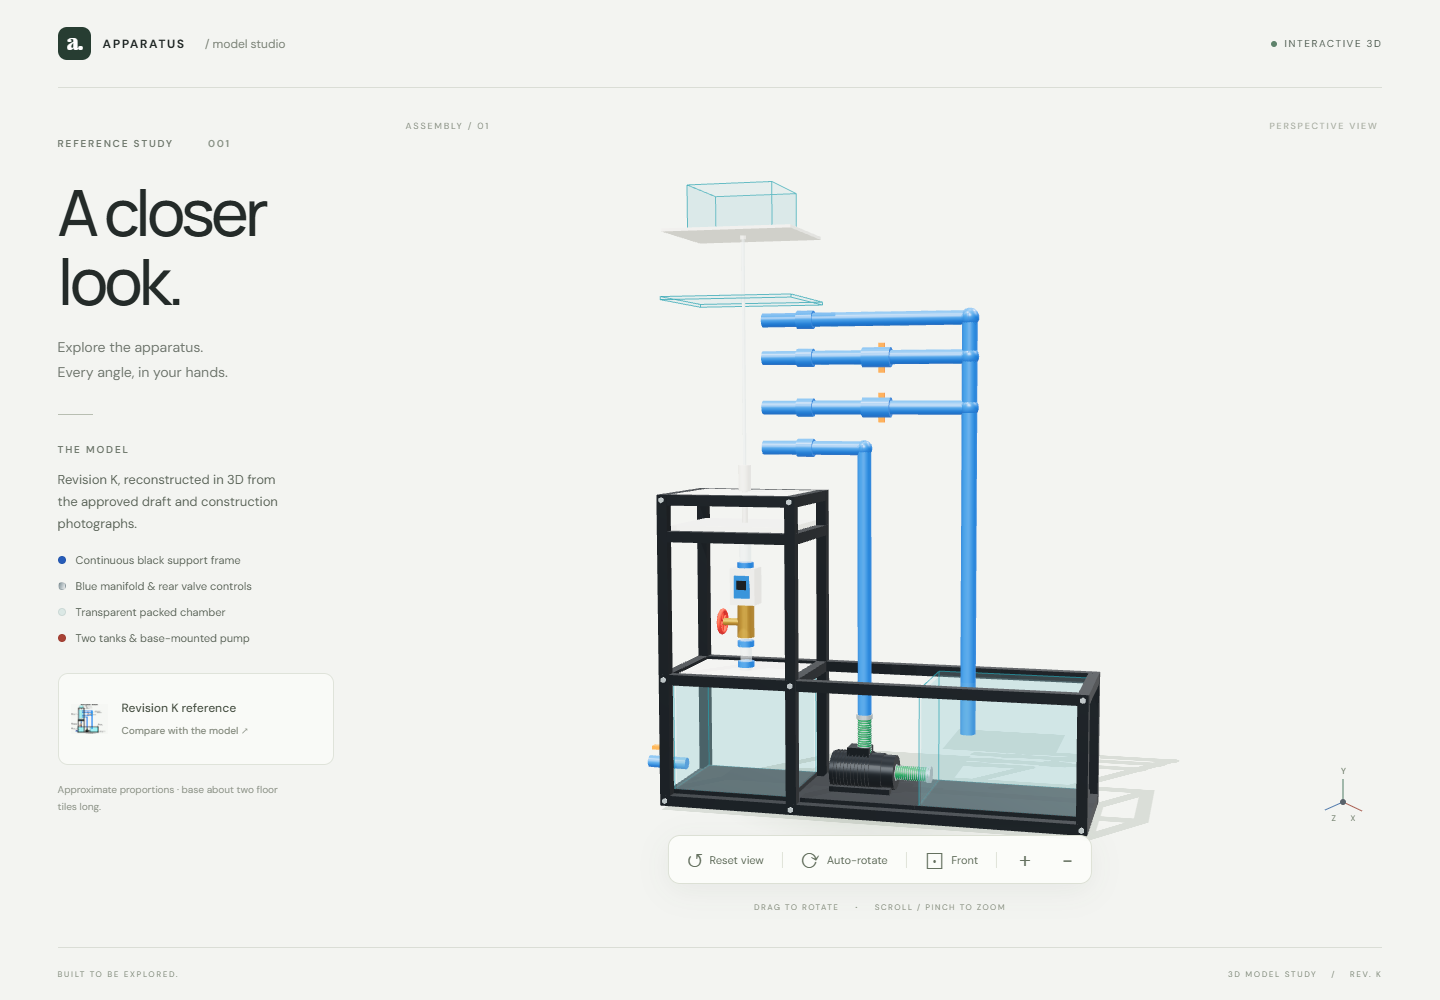
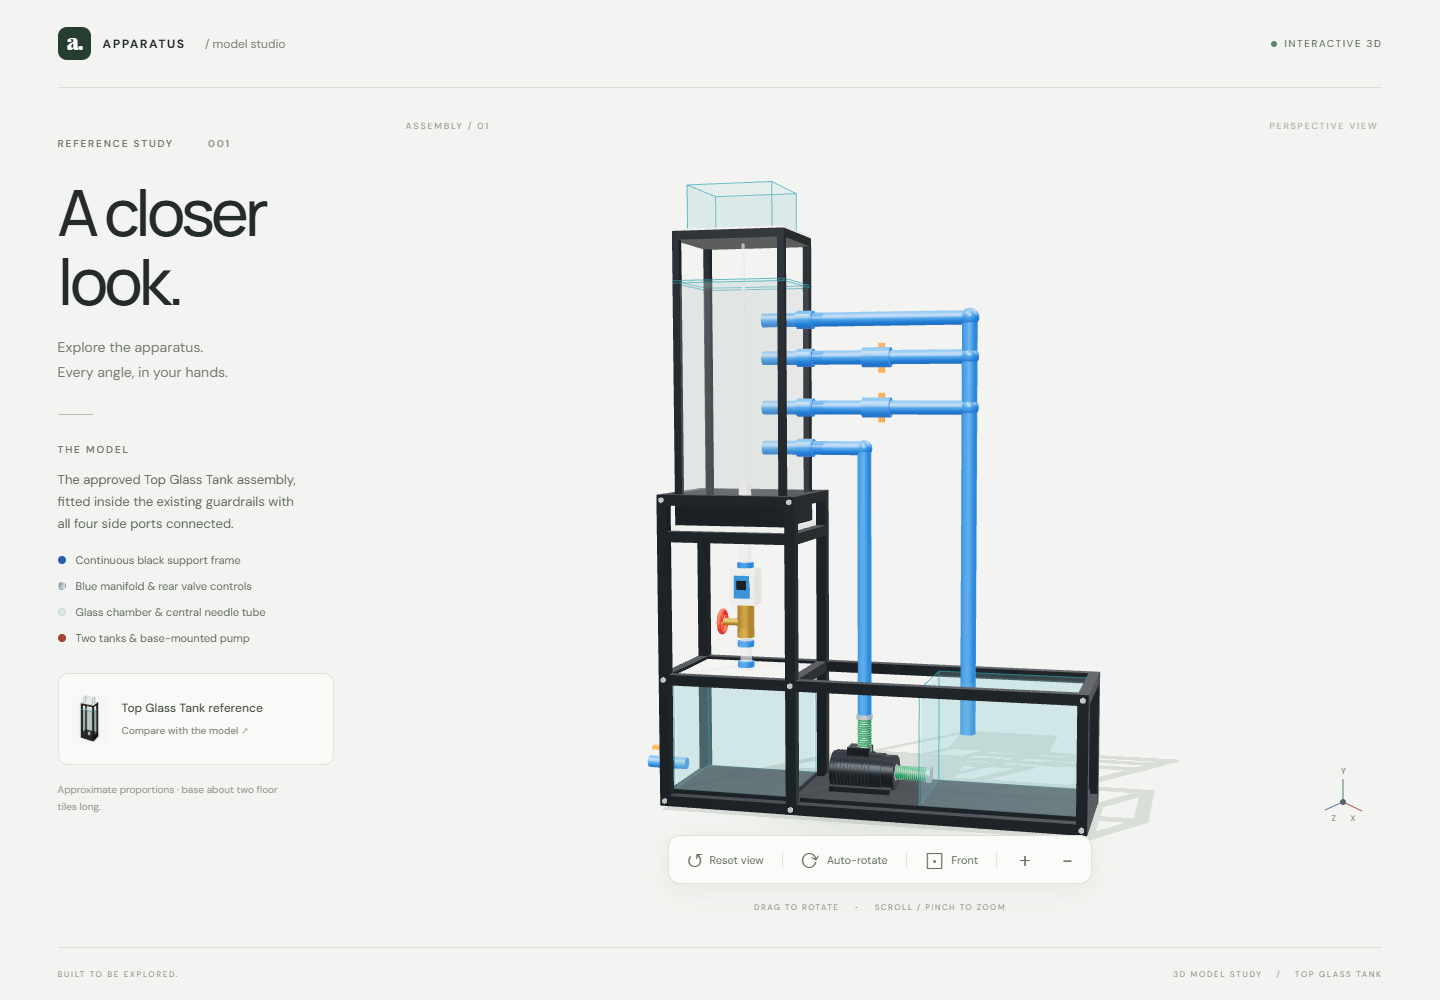
feat: complete inset top glass tank assembly

diff --git a/src/apparatus.js b/src/apparatus.js
@@ -3,7 +3,7 @@ import * as THREE from 'three';
 // Relative dimensions follow Revision K; photographs resolve depth and construction.
 export function createApparatus() {
   const model = new THREE.Group();
-  model.name = 'Revision K apparatus';
+  model.name = 'Top Glass Tank — approved experimental assembly';
   const standard=(color,metalness=0,roughness=.4)=>new THREE.MeshStandardMaterial({color,metalness,roughness});
   const m={black:standard('#20262b',.55),blue:standard('#0874e5',.15,.25),steel:standard('#bcc9cd',.75),white:standard('#efece0'),brass:standard('#bd8d35',.6),red:standard('#d33025'),orange:standard('#f16b16'),green:standard('#127845'),bead:standard('#e2e7df'),screen:standard('#0962b4'),edge:standard('#40acb9',.2)};
   m.glass=new THREE.MeshBasicMaterial({color:'#8cdee8',transparent:true,opacity:.10,side:THREE.DoubleSide,depthWrite:false});
@@ -52,25 +52,57 @@ export function createApparatus() {
   pipe(collection,'Drain top spindle',[-3.46,.56,.25],[-3.46,.78,.25],.043,m.brass);
   box(collection,'Drain top butterfly',.30,.055,.11,m.orange,-3.46,.79,.25);
   const reservoir=group('10 — open reservoir');tank(reservoir,'10 reservoir',1.91,1.145,2.30,1.73,1.46,false,true);
-  const chamber=group('04 — main chamber with aligned internal ports');
-  // White chamber seat and lower platform remain inside the retained guardrails.
-  box(chamber,'White lower tray platform',T-L-rail,.08,depth-rail,m.white,-2.15,4.29);
-  pipe(chamber,'Thin central clear tube',[-2.15,5.05,0],[-2.15,7.79,0],.025,m.tube);
-  pipe(chamber,'Plain nonmetal white cylinder',[-2.15,4.82,0],[-2.15,5.22,0],.095,m.white);
-  const needle=pipe(chamber,'Hidden downward needle inside white cylinder',[-2.15,5.18,0],[-2.15,4.87,0],.012,m.steel);
-  needle.userData.hiddenInsideCylinder=true;
-  pipe(chamber,'Internal outlet connection',[-2.15,4.87,0],[-2.15,4.29,0],.045,m.white);
-  const cap=group('02 + 03 — detachable upper vessel and glass enclosure');cap.userData.detachable=true;
-  // The glass holder and its support move with the raised frame; the chamber cap stays below the open gap.
-  // One solid floor sits on the frame, with no coplanar glass or duplicate floor faces.
-  const holderBase=8.0+upperFrameRise+.05+.045;
-  for(const x of [-2.81,-1.49])box(cap,'02 upper glass holder side wall',.012,.65,1.2,m.glass,x,holderBase+.325);
-  for(const z of [-.60,.60])box(cap,'02 upper glass holder end wall',1.308,.65,.012,m.glass,-2.15,holderBase+.325,z);
-  panelEdges(cap,1.32,.65,1.2,-2.15,holderBase+.325);
-  pipe(cap,'Thin pipe through hollow upper frame',[-2.15,7.73,0],[-2.15,holderBase,0],.025,m.tube);
-  pipe(cap,'Glass holder pipe mounting sleeve',[-2.15,holderBase-.10,0],[-2.15,holderBase+.025,0],.044,m.white);
+  const artifact=group('Top Glass Tank — complete inset assembly');
+  const cx=-2.15, width=1.74, tankDepth=1.39, post=.105;
+  const platformTop=4.33, housingTop=4.69, dividerY=7.95;
+  const holderBase=8.0+upperFrameRise+.05+.045, topPlateBottom=holderBase-.16;
+  const portYs=[7.42,6.85,6.10,5.49];
+  artifact.userData={clearance:.05,width,depth:tankDepth,platformTop,housingTop,dividerY};
+  const chamber=new THREE.Group();chamber.name='04 — enclosed glass chamber';artifact.add(chamber);
+  const cap=new THREE.Group();cap.name='02 + 03 — detachable holder, top support and divider';cap.userData.detachable=true;artifact.add(cap);
+  const grayGlass=new THREE.MeshBasicMaterial({color:'#c5d5d6',transparent:true,opacity:.13,side:THREE.DoubleSide,depthWrite:false});
+
+  // Real holes avoid coincident caps and preserve open bores through every horizontal plate.
+  function plateWithBore(g,name,w,d,thickness,y,material,r=.10){
+    const shape=new THREE.Shape();shape.moveTo(-w/2,-d/2);shape.lineTo(w/2,-d/2);shape.lineTo(w/2,d/2);shape.lineTo(-w/2,d/2);shape.closePath();
+    const hole=new THREE.Path();hole.absarc(0,0,r,0,Math.PI*2,true);shape.holes.push(hole);
+    const geo=new THREE.ExtrudeGeometry(shape,{depth:thickness,bevelEnabled:false,curveSegments:40});geo.rotateX(-Math.PI/2);
+    return mesh(g,name,geo,material,[cx,y,0]);
+  }
+  plateWithBore(chamber,'White lower tray platform',T-L-rail,depth-rail,.08,4.25,m.white);
+  plateWithBore(chamber,'Housing chamber floor',width,tankDepth,.045,housingTop-.045,m.black);
+  plateWithBore(chamber,'Housing underside with open outlet',width,tankDepth,.045,platformTop,m.black);
+  for(const x of [cx-width/2+.025,cx+width/2-.025])box(chamber,'Closed black housing side',.05,housingTop-platformTop,tankDepth,m.black,x,(platformTop+housingTop)/2);
+  for(const z of [-tankDepth/2+.025,tankDepth/2-.025])box(chamber,'Closed black housing end',width-.10,housingTop-platformTop,.05,m.black,cx,(platformTop+housingTop)/2,z);
+  for(const x of [cx-width/2+post/2,cx+width/2-post/2])for(const z of [-tankDepth/2+post/2,tankDepth/2-post/2]){
+    box(artifact,'Flush corner pillar',post,topPlateBottom-housingTop,post,m.black,x,(housingTop+topPlateBottom)/2,z);
+  }
+  // Four clear wall panels; the right wall has four actual coaxial pipe penetrations.
+  const glassBottom=housingTop, glassHeight=dividerY-glassBottom, glassCenter=(dividerY+glassBottom)/2;
+  const left=box(chamber,'Left glass wall',.012,glassHeight,tankDepth-2*post,grayGlass,cx-width/2+.012,glassCenter);
+  for(const z of [-tankDepth/2+.012,tankDepth/2-.012])box(chamber,'Front / rear glass wall',width-2*post,glassHeight,.012,grayGlass,cx,glassCenter,z);
+  const side=new THREE.Shape();const halfDepth=(tankDepth-2*post)/2;
+  side.moveTo(-halfDepth,glassBottom);side.lineTo(halfDepth,glassBottom);side.lineTo(halfDepth,dividerY);side.lineTo(-halfDepth,dividerY);side.closePath();
+  for(const y of portYs){const hole=new THREE.Path();hole.absarc(0,y,.142,0,Math.PI*2,true);side.holes.push(hole);}
+  const wallGeo=new THREE.ShapeGeometry(side,40);wallGeo.rotateY(Math.PI/2);
+  mesh(chamber,'Right glass wall with four port openings',wallGeo,grayGlass,[cx+width/2-.012,0,0]);
+  plateWithBore(cap,'Horizontal glass divider',width,tankDepth,.035,dividerY,m.glass,.033);
+  panelEdges(cap,width,.035,tankDepth,cx,dividerY+.0175);
+  plateWithBore(cap,'Black top support',width,tankDepth,.13,topPlateBottom,m.black,.035);
+  plateWithBore(cap,'White top holder base',width,tankDepth,.03,holderBase-.03,m.white,.035);
+  for(const x of [cx-.66,cx+.66])box(cap,'02 upper glass holder side wall',.012,.65,1.2,m.glass,x,holderBase+.325);
+  for(const z of [-.60,.60])box(cap,'02 upper glass holder end wall',1.308,.65,.012,m.glass,cx,holderBase+.325,z);
+  panelEdges(cap,1.32,.65,1.2,cx,holderBase+.325);
+  pipe(artifact,'Thin central pipe through holder and divider',[cx,4.93,0],[cx,holderBase+.04,0],.025,m.tube);
+  // Open white sleeve: outer/inner surfaces and annular rims, no solid end caps.
+  const sleeveBottom=4.12,sleeveTop=4.95,outer=.095,inner=.065;
+  mesh(chamber,'White hollow needle sleeve outer',new THREE.CylinderGeometry(outer,outer,sleeveTop-sleeveBottom,40,1,true),m.white,[cx,(sleeveTop+sleeveBottom)/2,0]);
+  const innerMat=m.white.clone();innerMat.side=THREE.BackSide;
+  mesh(chamber,'White hollow needle sleeve inner',new THREE.CylinderGeometry(inner,inner,sleeveTop-sleeveBottom,40,1,true),innerMat,[cx,(sleeveTop+sleeveBottom)/2,0]);
+  for(const y of [sleeveBottom,sleeveTop]){const rim=mesh(chamber,'Open annular sleeve rim',new THREE.RingGeometry(inner,outer,40),m.white,[cx,y,0]);rim.rotation.x=y===sleeveTop?-Math.PI/2:Math.PI/2;}
+  const needle=pipe(chamber,'Concealed downward needle',[cx,4.91,0],[cx,4.57,0],.008,m.steel);needle.userData.hiddenInsideCylinder=true;
   const plumbing=group('05 + 06 — blue header and rear valve controls');
-  const portYs=[7.42,6.85,6.10,5.49], headerX=1.35, portZ=0;
+  const headerX=1.35, portZ=0;
   portYs.forEach((y,i)=>{
     const end=i===3?-.25:headerX;
     pipe(plumbing,'P'+(i+1)+' coaxial chamber-to-exterior pipe',[-1.84,y,portZ],[end,y,portZ],.105);
@@ -98,8 +130,8 @@ export function createApparatus() {
   for(const z of [-.24,.24])box(pump,'Bolted pump foot',.94,.09,.13,m.black,-.26,.32,z);
   pipe(pump,'Top discharge fitting',[-.25,.67,0],[-.25,.80,0],.125,m.black);
   const meter=group('07 — vertical flow meter and left-facing handwheel');
-  pipe(meter,'Visible upper outlet pipe',[-2.15,3.67,0],[-2.15,4.30,0],.09,m.tube);
-  for(const y of [3.67,4.28,2.13,2.45])pipe(meter,'Outlet blue union',[-2.15,y-.045,0],[-2.15,y+.045,0],.128);
+  pipe(meter,'Visible upper outlet pipe',[-2.15,3.67,0],[-2.15,4.12,0],.09,m.tube);
+  for(const y of [3.67,4.12,2.13,2.45])pipe(meter,'Outlet blue union',[-2.15,y-.045,0],[-2.15,y+.045,0],.128);
   box(meter,'Inline digital flow meter',.40,.57,.34,m.white,-2.15,3.35);
   box(meter,'Blue meter display',.25,.35,.025,m.screen,-2.15,3.35,.184);
   box(meter,'LCD',.16,.14,.012,m.black,-2.15,3.38,.202);
@@ -108,7 +140,7 @@ export function createApparatus() {
   const wheel=mesh(meter,'Left-facing red handwheel',new THREE.TorusGeometry(.17,.033,10,32),m.red,[-2.53,2.78,0]);wheel.rotation.y=Math.PI/2;
   for(let a=0;a<3;a++){const t=a*Math.PI/3;pipe(meter,'Handwheel spoke',[-2.53,2.78-Math.cos(t)*.16,-Math.sin(t)*.16],[-2.53,2.78+Math.cos(t)*.16,Math.sin(t)*.16],.018,m.red);}
   pipe(meter,'Lower visible pipe to sealed collection cover',[-2.15,1.75,0],[-2.15,2.55,0],.09,m.tube);
-  model.userData={revision:'K',units:'relative; dimensions unmeasured',reference:'Revision K plus construction photographs'};
+  model.userData={revision:'Top Glass Tank',units:'relative; dimensions unmeasured',reference:'Revision K plus construction photographs'};
   return model;
 }
 

diff --git a/index.html b/index.html
@@ -15,9 +15,9 @@
         <p class="subtitle">Explore the apparatus.<br> Every angle, in your hands.</p>
         <div class="divider"></div>
         <div class="section-label">THE MODEL</div>
-        <p class="model-copy">Revision K, reconstructed in 3D from the approved draft and construction photographs.</p>
-        <ul class="materials"><li><i class="blue"></i>Continuous black support frame</li><li><i class="silver"></i>Blue manifold & rear valve controls</li><li><i class="glass"></i>Transparent packed chamber</li><li><i class="red"></i>Two tanks & base-mounted pump</li></ul>
-        <button id="reference-open" class="reference-card"><img src="/revision-k.png" alt="Original apparatus reference photograph"/><span>Revision K reference<small>Compare with the model ↗</small></span></button>
+        <p class="model-copy">The approved Top Glass Tank assembly, fitted inside the existing guardrails with all four side ports connected.</p>
+        <ul class="materials"><li><i class="blue"></i>Continuous black support frame</li><li><i class="silver"></i>Blue manifold & rear valve controls</li><li><i class="glass"></i>Glass chamber & central needle tube</li><li><i class="red"></i>Two tanks & base-mounted pump</li></ul>
+        <button id="reference-open" class="reference-card"><img src="/top-glass-tank.png" alt="Original apparatus reference photograph"/><span>Top Glass Tank reference<small>Compare with the model ↗</small></span></button>
         <p class="note">Approximate proportions · base about two floor tiles long.</p>
       </aside>
       <section id="viewport" aria-label="Interactive 3D apparatus viewer">
@@ -28,8 +28,8 @@
         <div class="gesture-hint"><span>DRAG TO ROTATE</span><b>·</b><span>SCROLL / PINCH TO ZOOM</span></div>
       </section>
     </main>
-    <footer><span>BUILT TO BE EXPLORED.</span><span>3D MODEL STUDY <b>/</b> REV. K</span></footer>
-    <dialog id="reference-dialog"><div class="dialog-top"><span>Revision K reference</span><button id="reference-close" aria-label="Close reference">✕</button></div><img src="/revision-k.png" alt="Full original photograph used to model the apparatus"/><p>Model dimensions and unseen surfaces are approximations.</p></dialog>
+    <footer><span>BUILT TO BE EXPLORED.</span><span>3D MODEL STUDY <b>/</b> TOP GLASS TANK</span></footer>
+    <dialog id="reference-dialog"><div class="dialog-top"><span>Top Glass Tank reference</span><button id="reference-close" aria-label="Close reference">✕</button></div><img src="/top-glass-tank.png" alt="Full original photograph used to model the apparatus"/><p>Model dimensions and unseen surfaces are approximations.</p></dialog>
     <script type="module" src="/src/main.js"></script>
   </body>
 </html>

diff --git a/artifacts/new-apparatus/design-rules.md b/artifacts/new-apparatus/design-rules.md
@@ -124,3 +124,21 @@ These are connection rules, not a prediction of actual flow rates or branch flow
 - Meter/valve and the straight pipe sections above and below remain accessible and unobstructed.
 - No pipe/frame/glass solid collisions, unsupported tank bottoms, or hoses used as structural members.
 - No upward-projecting needle or superseded extra reservoir-side upright.
+
+
+## Top Glass Tank branch — approved replacement assembly
+
+This section supersedes earlier upper-tower geometry rules on branch `Top-Glass-Tank`. Reference: `top-glass-tank-approved.png`; clear top holder and white top mounting surface are controlling.
+
+- Keep the existing white platform and all guardrails, four lower corner pillars, and perimeter edging unchanged. The new assembly rests on the platform, not the rails.
+- Fit the complete assembly inside the rail opening with a small uniform clearance on all four sides. No overlap or outward overhang. In the relative model the opening is 1.84 by 1.49, artifact 1.74 by 1.39, giving 0.05 clearance per side.
+- Four black full-height pillars align flush with both the closed black lower housing and the black upper support. Their outer footprints match; no inset or plate overhang.
+- A white mounting surface supports the separate small clear open-top glass holder. The holder is centered and grouped with the removable top support and horizontal glass divider.
+- A horizontal glass divider separates a short open upper bay from the tall main chamber. Enclose all four sides below that pane with continuous slightly gray clear glass, down to the top of the lower housing. Keep the upper bay open.
+- Use nonrefractive transparency; rails, posts and pipe centerlines must never appear offset or duplicated through the glass.
+- All four existing blue horizontal pipes pass through real right-wall openings, extending left inside the chamber on their original exterior centerlines. Upper three connect to the common reservoir header. Lowest port retains its independent pump riser.
+- Keep one very thin centered pipe from the top holder through the divider down to a plain white hollow sleeve. The needle is concealed inside this sleeve and points downward.
+- The lower black housing is enclosed on all exterior sides, with a centered outlet passage. It may be hollow internally. The white sleeve continues through the housing and platform and remains open below; no blue parts on the sleeve.
+- Connect the white outlet coaxially and continuously to the pipe above component 7. Keep component 7, tanks 8 and 10, pump, hoses, and valves in their existing positions.
+- Do not restore media balls or the former separate black cylindrical cover.
+- Dimensions remain relative and unmeasured; clearances are visual design proportions, not fabrication tolerances.
